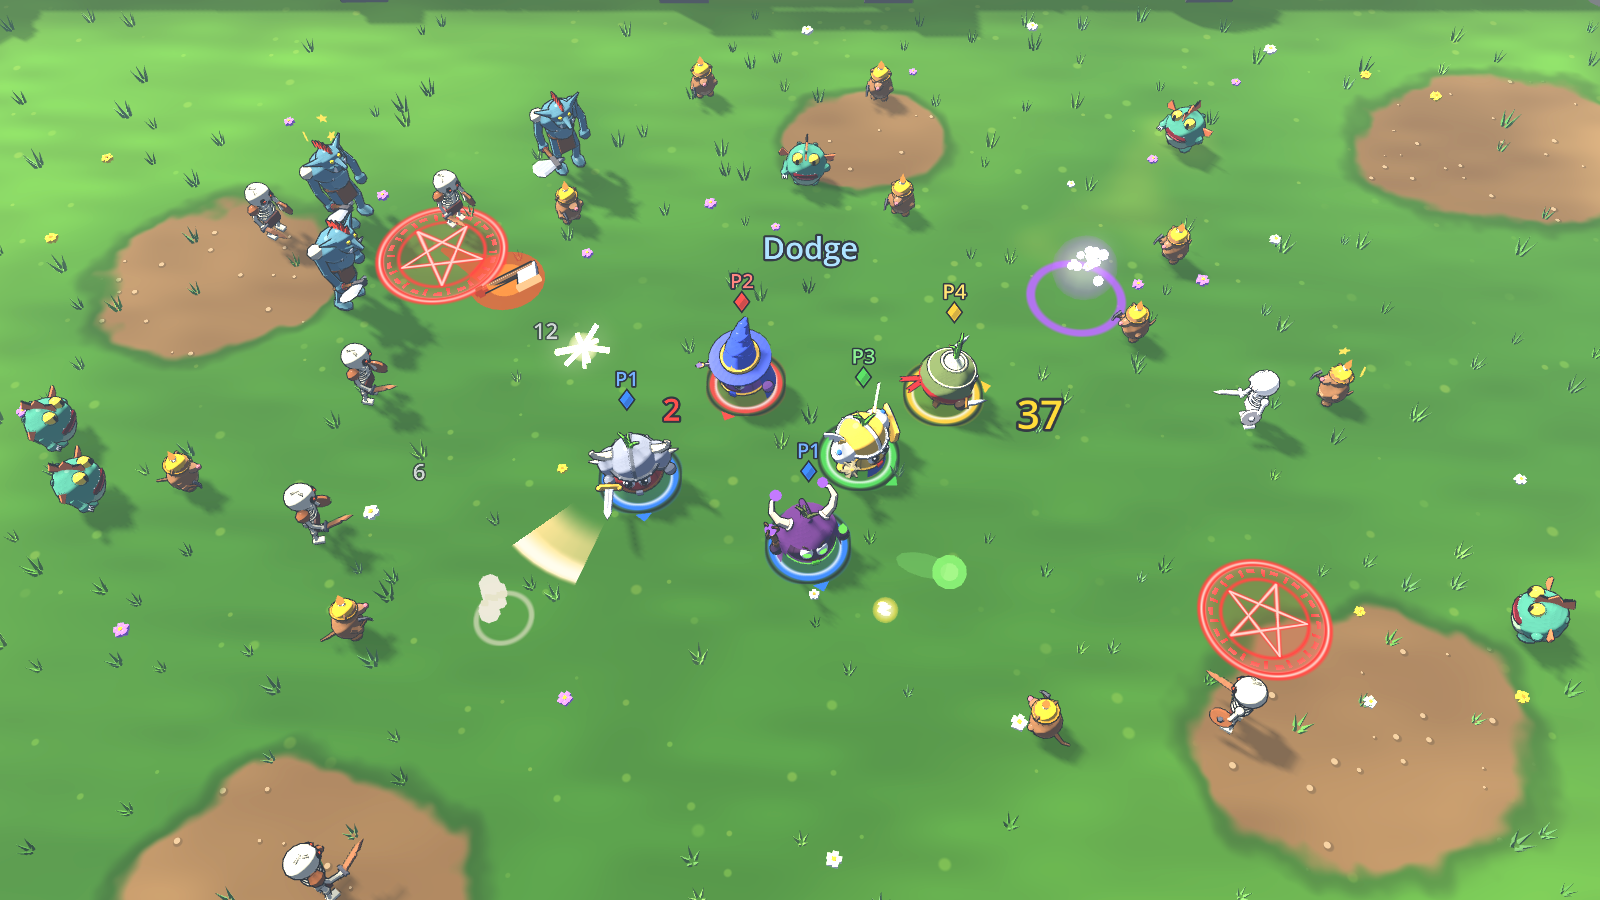
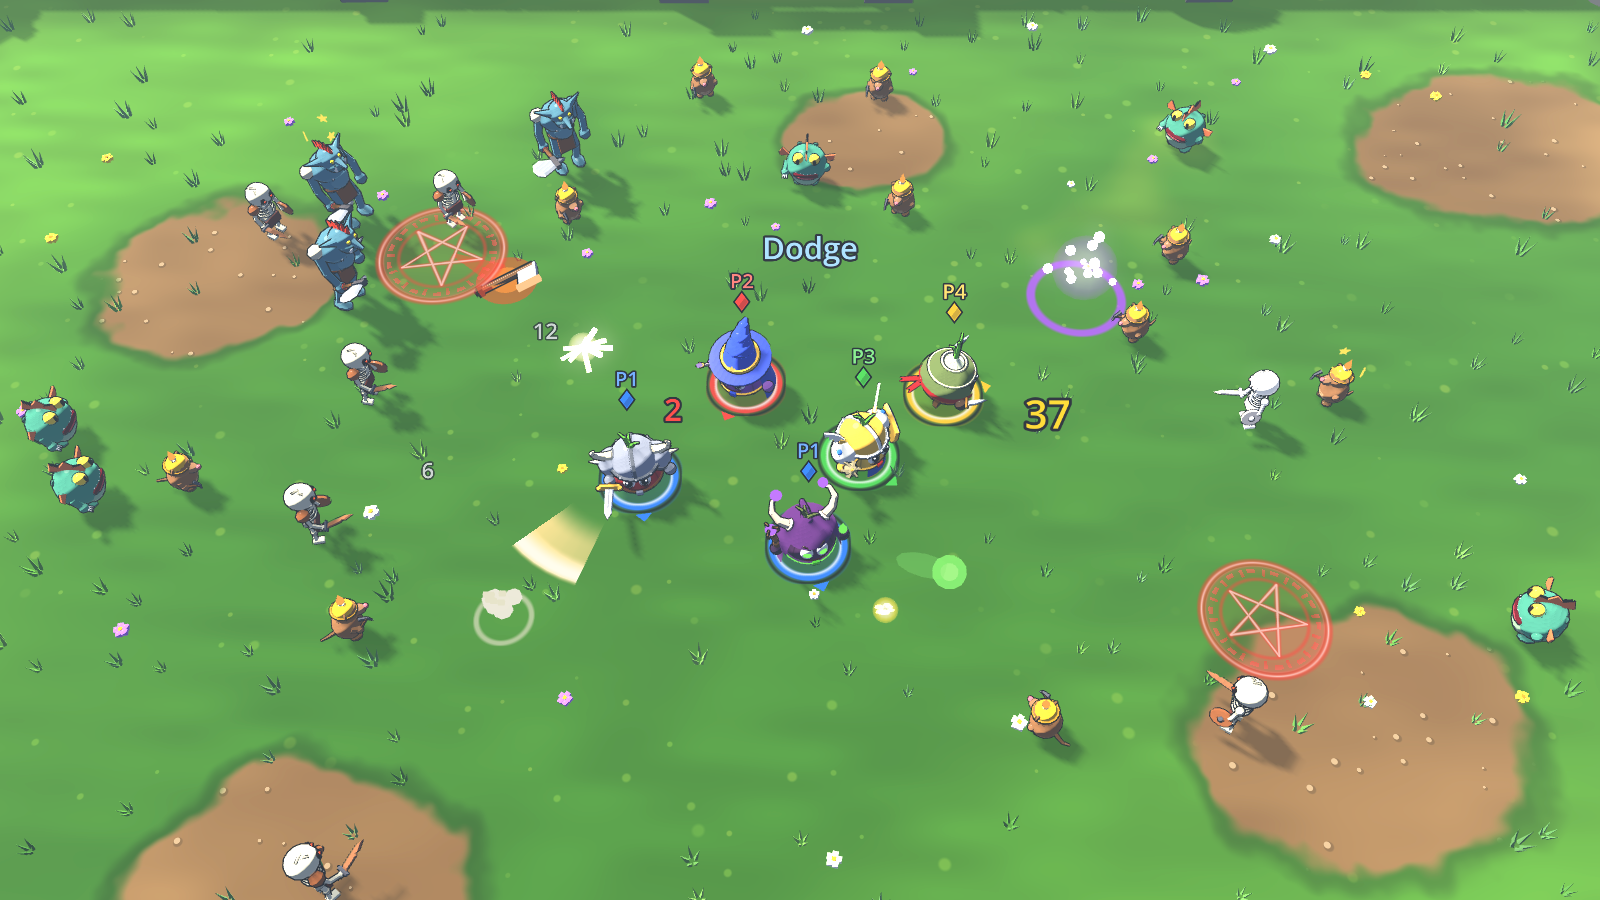
Visual/UX fixes: readable ghosts + player markers, HUD-aware camera and smaller HUD, merged damage numbers, subtle explosions, on-screen spawn telegraphs, visible troll axes, lighter rogue/warlock, level starts at 1
Claude-Session: https://claude.ai/code/session_01N5df4hKuxXpYDQ7RPCfU8h

diff --git a/docs/ARCHITECTURE.md b/docs/ARCHITECTURE.md
@@ -105,10 +105,14 @@ the new screen never sees the button press that closed the old one.
 
 - Player stats: `StatBlock` with sources `&"class"` (ClassData.base_stats),
   `&"weapon:main"`, `&"weapon:off"` (WeaponData.bonus_stats). Max HP = 10 + Stamina.
-- **TEMPORARY placeholder until the M4 level-up cards:** every team level gives every player
-  +1 Stamina (+1 Max HP) and +4% damage via the source `&"level"` (`Player.LEVEL_*`; applied
-  in `Player.create` for the current level and on `RunState.leveled_up`, current HP rises by
-  the Max HP gained). Remove it when the level-up cards replace it.
+- Team level: a run starts at level 1 (`RunState.START_LEVEL`, WoW style); the n-th
+  level-up needs `(n + 3)^2` XP × the co-op multiplier (`RunState.xp_needed_for_level`, so
+  1 → 2 needs 16 solo); talent points from level 10 (`talent_points_earned`).
+- **TEMPORARY placeholder until the M4 level-up cards:** every team level gained above the
+  starting level gives every player +1 Stamina (+1 Max HP) and +4% damage via the source
+  `&"level"` (`Player.LEVEL_*`; nothing at level 1; applied in `Player.create` for the current
+  level and on `RunState.leveled_up`, current HP rises by the Max HP gained). Remove it when
+  the level-up cards replace it.
 - `WeaponRunner` (one per weapon that `attacks()`): cooldown =
   `CombatMath.weapon_cooldown`; target = nearest living enemy within `attack_range`.
   - `MELEE_ARC`: every enemy within `attack_range + enemy.radius` and inside `arc_degrees`
@@ -144,7 +148,10 @@ the new screen never sees the button press that closed the old one.
   run is 42 minutes of fighting). Spawn budget per second
   `(0.9 + 0.22 * (w - 1)) * RunState.coop_count_mult()`; weighted pick among enemies with
   `first_wave <= w`; group size in `[group_min, group_max]`; position = random arena point
-  ≥ 6 m from every living player; `Vfx.spawn_telegraph` 1 s before the group appears.
+  ≥ 6 m from every living player, preferably on screen outside the HUD
+  (`CameraRig.get_safe_ground_rect()`; 16 tries there, then 8 anywhere in the arena);
+  `Vfx.spawn_telegraph` (red rune with a white-hot core, readable without colour) 1 s before
+  the group appears.
 - At most `MAX_ENEMIES` alive. When the timer ends: remaining enemies `despawn()` (no loot),
   pickups `collect_to_bank()`, `wave_cleared` emitted.
 - Waves 10 / 20 / 25 (boss / elite) are regular waves until milestone M6.
@@ -199,6 +206,30 @@ Screenshots of every screen: `docs/screenshots/{menu,lobby,gameplay,intermission
   - `OnionModel.set_channel_target(downed_player)` / `null` – the reviver raises golden,
     glowing hands and a light beam connects it to the ghost.
   - `Vfx.resurrect_column(feet_pos)` – shaft of light from the sky when a revive completes.
+  - `OnionModel.set_tag("P1")` – player marker above the head: a nameplate diamond in the
+    player colour with the slot label, fixed screen size, no depth test (shows through
+    crowds). `Player.create` sets it; "" hides it (lobby previews). Over a ghost it bobs and
+    is lifted above the "Resurrecting" cast bar. Downed: the player-colour ring stays and
+    pulses, the revive circle is tinted with the ghost's own colour, ghost alpha 0.6.
+  - `Mats.set_ring_stroke(node, amount)` – dark outline + white inner stroke on a ground
+    ring (player rings use it, so the player colour reads on any ground / class colour).
+  - Heroes never fully overlap: `Player.separation_offset` – a soft push (no physics
+    collision) when two bodies are closer than `SEPARATION_DISTANCE`.
+  - Damage numbers: `Vfx.damage_number(target, pos, amount, color, size)` – hits on the same
+    enemy within `Vfx.MERGE_WINDOW` (0.25 s) add up on one number that pops again; normal
+    hits small (0.6) and translucent, crits 1.1; at most `Vfx.MAX_TEXTS` (28) texts (+8 for
+    crits); WoW-like pop-in and sideways arc. A hero's own numbers (damage taken, heals,
+    Dodge) start beside its head (`Player.self_text_position`), alternating sides.
+  - Explosions: a short faint flash (`Vfx.EXPLOSION_FLASH_*`: alpha 0.45, 0.6 × radius,
+    gone in 0.15 s); the ground ring and embers carry the blast so targets stay visible.
+  - Enemy projectiles (`ProjectileVisual.build(..., enemy = true)`): 1.6× size, red-orange
+    halo and a short trail, fast spin – a different hue family from the heroes' class-
+    coloured bolts.
+  - Camera framing keeps heroes out from under the HUD: per-side margins `FRAME_MARGIN`
+    (sides), `FRAME_MARGIN_BOTTOM` and `CameraRig.top_margin(distance)` (grows with the zoom –
+    the wave / timer plaque covers a fixed share of the screen – capped so the whole arena
+    still fits at `MAX_DISTANCE`). `CameraRig.safe_ground_rect()` / `get_safe_ground_rect()`
+    is the visible ground outside the HUD (spawn preference, ghost walk area).
   - `CameraRig.get_walk_rect(player)` – shared screen (GDD 13): the rectangle a player may
     walk in so nobody leaves the screen once the camera is fully zoomed out. `Player` clamps
     its motion to it every tick (when `Arena.current.camera` is in the tree) and slides
@@ -206,7 +237,7 @@ Screenshots of every screen: `docs/screenshots/{menu,lobby,gameplay,intermission
     only kept from going further out). For living players it binds only when the team
     spreads wider than the fully zoomed-out view (never in the MVP arena: the whole arena
     fits at `MAX_DISTANCE`); a ghost, which the camera does not follow, is kept inside the
-    current view.
+    current view, out from under the HUD (`safe_ground_rect`).
   - `Arena.get_view_rect()` – what the camera may show (smaller margin towards the camera).
 - Art showcase (dev tool, renders a PNG under Xvfb):
   `xvfb-run -a -s "-screen 0 1920x1080x24" godot --path . --rendering-driver opengl3 -s res://tools/showcase/showcase.gd -- --view=gameplay --out=/tmp/shot.png`
@@ -235,10 +266,16 @@ Screenshots of every screen: `docs/screenshots/{menu,lobby,gameplay,intermission
   `start_requested` (once; joining is switched off). B / Esc with nobody joined →
   `back_requested`. A controller unplugged in the lobby leaves its slot. Each card has a live
   `OnionPreview` (SubViewport with its own World3D).
-- `Hud`: listens to `RunState` (wave, gold with a count-up and "+N" floater, XP, level up →
-  `show_banner("LEVEL UP!")`) by itself; Main calls `bind_players(players)` after spawning and
-  connects `WaveDirector.wave_timer_changed` → `set_wave_time` (red ≤ 5 s). Unit frames hide
-  when their player is freed; while downed they show the revive progress.
+- `Hud`: listens to `RunState` (wave, gold with a count-up and one "+N" floater right of the
+  coin that sums every pickup while it shows – `FLOATER_TIME` 0.6 s after the last one –, XP,
+  level up → `show_banner("LEVEL UP!")`) by itself; Main calls `bind_players(players)` after
+  spawning and connects `WaveDirector.wave_timer_changed` → `set_wave_time` (red ≤ 5 s).
+  Compact: `UnitFrame`s ~340 px wide at 80% panel opacity (smallest text 18 px, readable at
+  720p), a compact wave / timer plaque, the XP bar as a thin segmented strip along the whole
+  bottom edge (WoW style; level at its left end, "xp / needed XP" at its right end) and a slim
+  translucent banner (`BANNER_HEIGHT` 100 px, ribbon alpha 0.38) anchored just below the
+  plaque. Unit frames hide when their player is freed; while downed they show the revive
+  progress.
 - `Intermission.open(wave, level_ups)` / `GameOverScreen.open(victory)` / `PauseMenu.open(slot)`
   ignore the input of the frame they were opened on (Game Over: the first
   `INPUT_DELAY` = 1 s) and emit their signal once per `open()`. Intermission: humans ready with
@@ -256,7 +293,8 @@ Screenshots of every screen: `docs/screenshots/{menu,lobby,gameplay,intermission
   also run with `process_mode` ALWAYS, so Main may pause the tree behind them.
 - `set_backdrop_opacity(alpha)` on MainMenu / Lobby / Intermission / GameOverScreen lets the
   3D scene show through the dark vignette backdrop.
-- Screenshots: `docs/screenshots/ui_lobby.png`, `docs/screenshots/ui_hud.png`.
+- Screenshots: `docs/screenshots/ui_lobby.png`, `docs/screenshots/ui_hud.png`
+  (`--resolution 1920x1080 -- --demo --seed=3 --start-wave=10 --shot-time=18`).
 
 ## Forward compatibility: meta-progression (GDD chapter 17, milestone M9)
 

diff --git a/docs/GDD.md b/docs/GDD.md
@@ -741,7 +741,8 @@ Ez a játék fő újítása a Brotatóhoz képest: a szintlépés nem csak stato
 
 ### 6.1 Szintlépés
 
-- **XP:** közös csapat-XP. Az `n.` szinthez szükséges XP: `(n + 3)²` (Brotato-képlet).
+- **XP:** közös csapat-XP. A csapat az **1. szintről** indul (WoW-osan); az `n.` szintlépéshez
+  szükséges XP: `(n + 3)²` (Brotato-képlet; az 1 → 2 szintlépés 16 XP).
   Co-opban ez szorzódik: `(n + 3)² × (1 + 0,6 × (játékosok − 1))`, felfelé kerekítve
   (1 játékos ×1, 2 ×1,6, 3 ×2,2, 4 ×2,8) – ugyanaz a +60% játékosonként, mint az
   ellenségszámé (9. fejezet), így a több ellenségből jövő több XP nem gyorsítja a szintlépést.
